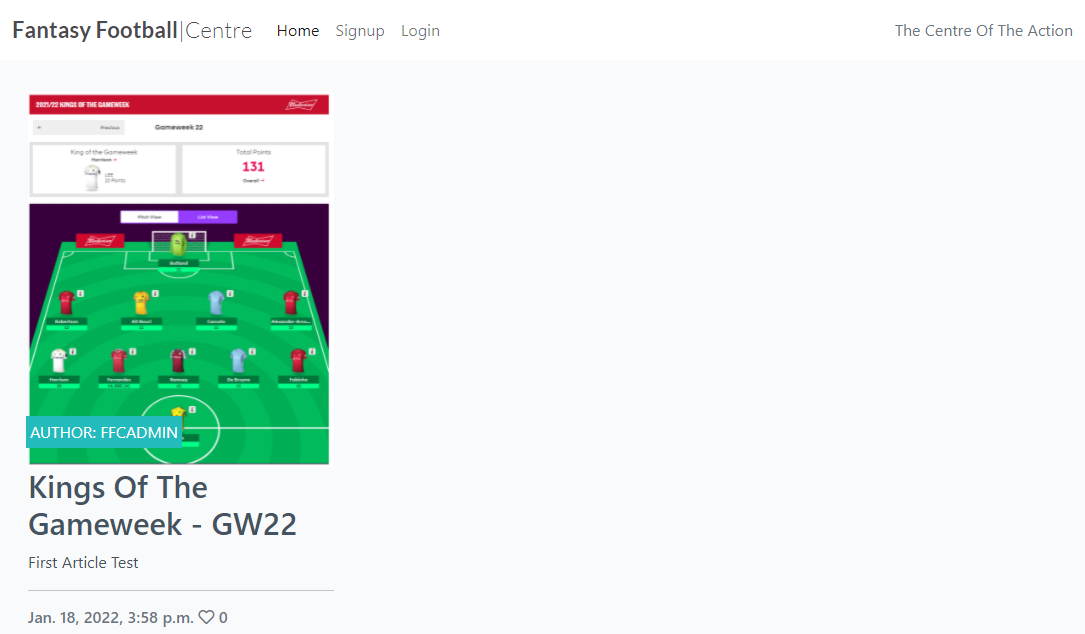
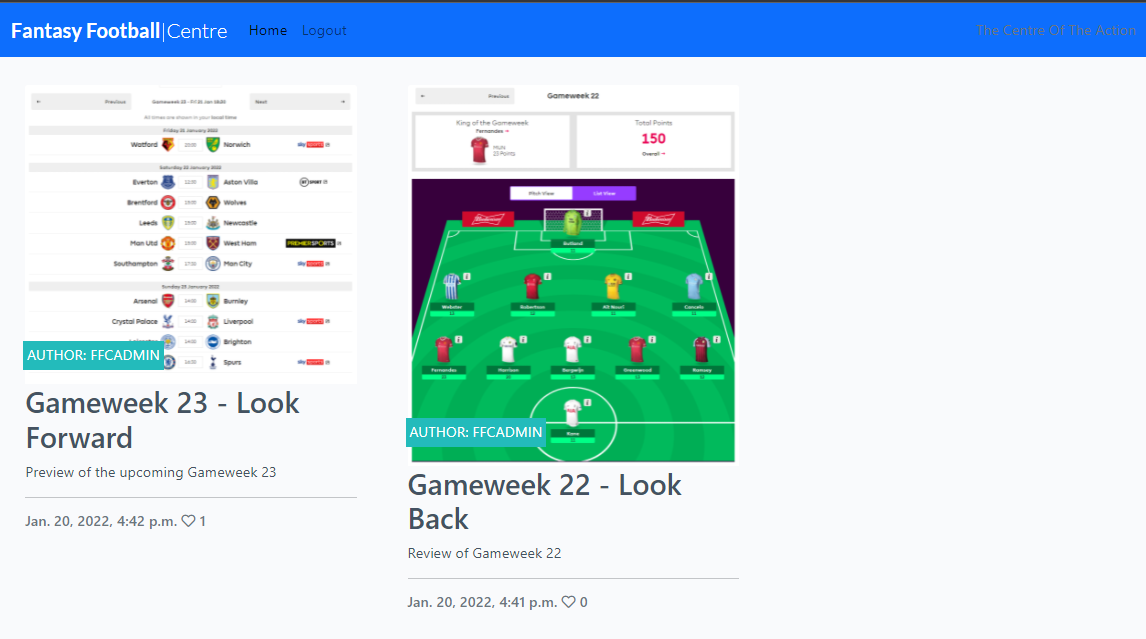
Update home page screenshot and layout

diff --git a/templates/base.html b/templates/base.html
@@ -35,7 +35,7 @@
             <div class="collapse navbar-collapse" id="navbarText">
                 <ul class="navbar-nav me-auto mb-2 mb-lg-0">
                     <li class="nav-item">
-                        <a class="nav-link active" aria-current="page" href="{% url 'home' %}">Home</a>
+                        <a class="nav-link active color" aria-current="page" href="{% url 'home' %}">Home</a>
                     </li>
                     {% if user.is_authenticated %}
                     <li class="nav-item">

diff --git a/static/css/style.css b/static/css/style.css
@@ -6,7 +6,7 @@ body {
     font-family: Lato, sans-serif;
     font-size: 1.4rem;
     font-weight: 700;
-    color: firebrick;
+    color: #fff;
 }
 
 .red-o {
@@ -124,7 +124,7 @@ body {
 
 .link:hover,
 .link:active {
-    color: #445261;
+    color: #fff;
     text-decoration: underline;
 }
 

diff --git a/fantasyfootballcentre/settings.py b/fantasyfootballcentre/settings.py
@@ -30,7 +30,7 @@ TEMPLATES_DIR = os.path.join(BASE_DIR, 'templates')
 SECRET_KEY = os.environ.get('SECRET_KEY')
 
 # SECURITY WARNING: don't run with debug turned on in production!
-DEBUG = False
+DEBUG = True
 
 ALLOWED_HOSTS = ['fantasyfootballcentre.herokuapp.com', 'localhost']
 

diff --git a/README.md b/README.md
@@ -1,5 +1,5 @@
 # Fantasy Football Centre
-![Title](Readme/home.png)
+![Title](readme/home.png)
 
 Fantasy Football Centre (FFC) is a Django-based web application that will allow users to browse, read, and comment on Fantasy Football Content. 
 # UX Planes
@@ -32,11 +32,41 @@ To deliver the scope of the project, an Agile approach to Software Development h
 
 A view of the Kanban board with the user stories having been brought through "To Do", "In Progress", and "Done" columns as follows:
 
-![Title](Readme/kanban.png)
+![Title](readme/kanban.png)
 
 ## Structure
 
 The website is structured using the Django Framework functionality, with a home page, a login option, and a signup page. The home page contains the main content of the site, housing the Fantasy Football Articles, together with the comments that have been posted by other users/viewers
+
+## Code Structure
+
+## Database Structure
+
+Entity Relationship Diagrams:
+
+Articles:
+Fields: Key, Name, Type
+Title (Unique) - Char[200]
+(1TM - Foreign Key) Author - Take from User Model
+Creation Date - DateTime
+Updated Date - DateTime
+Content - TextField
+Featured Image - Cloudinary Image
+Excerpt - TextField
+(MTM) Likes - User Model
+Slug (unique) - SlugField
+Status - Integer
+
+Comments:
+Key, Name, Type, Extra Info
+Foreign Key - post, Post Model, Cascade on delete
+name, CharField, Max length 80
+email, EmailField
+body, TextField
+created_on, DateTimeField, auto_now_add True
+approved, BooleanField, default False
+
+Users:
 
 ## Skeleton
 
@@ -48,6 +78,8 @@ The wireframes below illustrate the skeleton of the site, including the home pag
 - Wireframe 4 - Signup Page
 - Wireframe 5 - Login page
 - Wireframe 6 - Administration page
+
+
 
 ## Surface
 
@@ -100,20 +132,19 @@ The Steps for deployment to Heroku are as follows - Please note these steps are 
 
 Settings Tab:
 
-- Config Vars - It is important to get your settings section done before you deploy  your code, the first section being the "config vars" - also known as "environment variables", are where sensitive data that needs to be kept private is stored. You must then create a Config Var called `PORT` which must be set to `8000`
+- Config Vars - It is important to get your settings section done before you deploy  your code, the first section being the "config vars" - also known as "environment variables", are where sensitive data that needs to be kept private is stored. In the case of this website & app the  required "CLOUDINARY_URL", "DATABASE_URL", and "SECRET_KEY" config vars are shown below:
 
-![Settings Tab](readme/deployment/heroku-configvars.png)
+![Settings Tab](readme/heroku-configvars.png)
 
-- Buildpacks - The next step is to add buildpacks - These install further dependencies that we need. Click “Add buildpack”, add the Python buildpack first and then click “Save changes”. Then add the node.js Buildpack, to handle the mock terminal, again clicking “Save”. 
-Note - please make sure the buildpacks are in this  order, with Python on top, and node.js underneath. If they're the other way around you  can click and drag them to change the order.
+- Buildpacks - The next step is to add buildpacks - These install further dependencies that we need. Click “Add buildpack”, add the Python buildpack first and then click “Save changes”. 
 
-![Buildpacks](readme/deployment/heroku-buildpacks.png)
+![Buildpacks](readme/heroku-buildpacks.png)
 
 Deployment Tab: 
 
 - Select Github here, and then we  can confirm that we want to connect to Github & search for the equivalent Github repository name, followed by “Search”. 
 
-![Github Deployment](readme/deployment/heroku-deploy.png)
+![Github Deployment](readme/heroku-deploy.png)
 
 - Next, click “connect” to link up the Heroku app to our Github repository code, and scroll down to see two options - for manual or automatic deployment
 - If you choose to enable automatic deployment then Heroku will rebuild the app every time you push a new change to your code in Github. 
@@ -124,20 +155,12 @@ and a button for the deployed link.
 ## Local Deployment
 Additionally - if you would like to make a local copy of the Github repository, you can clone it by typing the following command in your IDE terminal:
 
-- `git clone https://github.com/dkelly255/python-games-package.git`
+- `git clone https://github.com/dkelly255/fantasy-football-centre.git`
 
 Alternatively, if you use Gitpod, you can click the button below to generate a new workspace using this repository.
 
-[![Open in Gitpod](https://gitpod.io/button/open-in-gitpod.svg)](https://gitpod.io/#https://github.com/dkelly255/python-games-package)
-# Credits
-## Content:
-As part of the generic research & development process to enable building the application, I benchmarked several different sources providing fully functional Hangman Python Terminal applications - these are listed below:
+[![Open in Gitpod](https://gitpod.io/button/open-in-gitpod.svg)](https://gitpod.io/#https://github.com/dkelly255/fantasy-football-centre)
 
-1. [How to build python Hangman in 10 minutes](https://www.youtube.com/watch?v=m4nEnsavl6w) - this tutorial from Youtube account "Kite" was a quick & comprehensive tutorial from which I gained several insights into the mechanics of a typical Python Terminal based game of Hangman
-
-2. [How to Code a Game of Hangman (Beginner Python Tutorial)](https://www.youtube.com/watch?v=cJJTnI22IF8) - this is a similar tutorial from Youtube account "Kylie Ying", detailing how to successfully program a simple game of Hangman using Python
-
-3. [Terminal Hangman in Python](https://github.com/Pran54/Hangman) - This repository from Github was returned from a search engine research exercise and contained similar insights into the detailed mechanics of how to program a simple game of Hangman using the Python Terminal
 # Credits
 ## Content
 ## Code
@@ -145,26 +168,3 @@ As part of the generic research & development process to enable building the app
 
 
 
-Entity Relationship Diagrams:
-
-Articles:
-Fields: Key, Name, Type
-Title (Unique) - Char[200]
-(1TM - Foreign Key) Author - Take from User Model
-Creation Date - DateTime
-Updated Date - DateTime
-Content - TextField
-Featured Image - Cloudinary Image
-Excerpt - TextField
-(MTM) Likes - User Model
-Slug (unique) - SlugField
-Status - Integer
-
-Comments:
-Key, Name, Type, Extra Info
-Foreign Key - post, Post Model, Cascade on delete
-name, CharField, Max length 80
-email, EmailField
-body, TextField
-created_on, DateTimeField, auto_now_add True
-approved, BooleanField, default False
